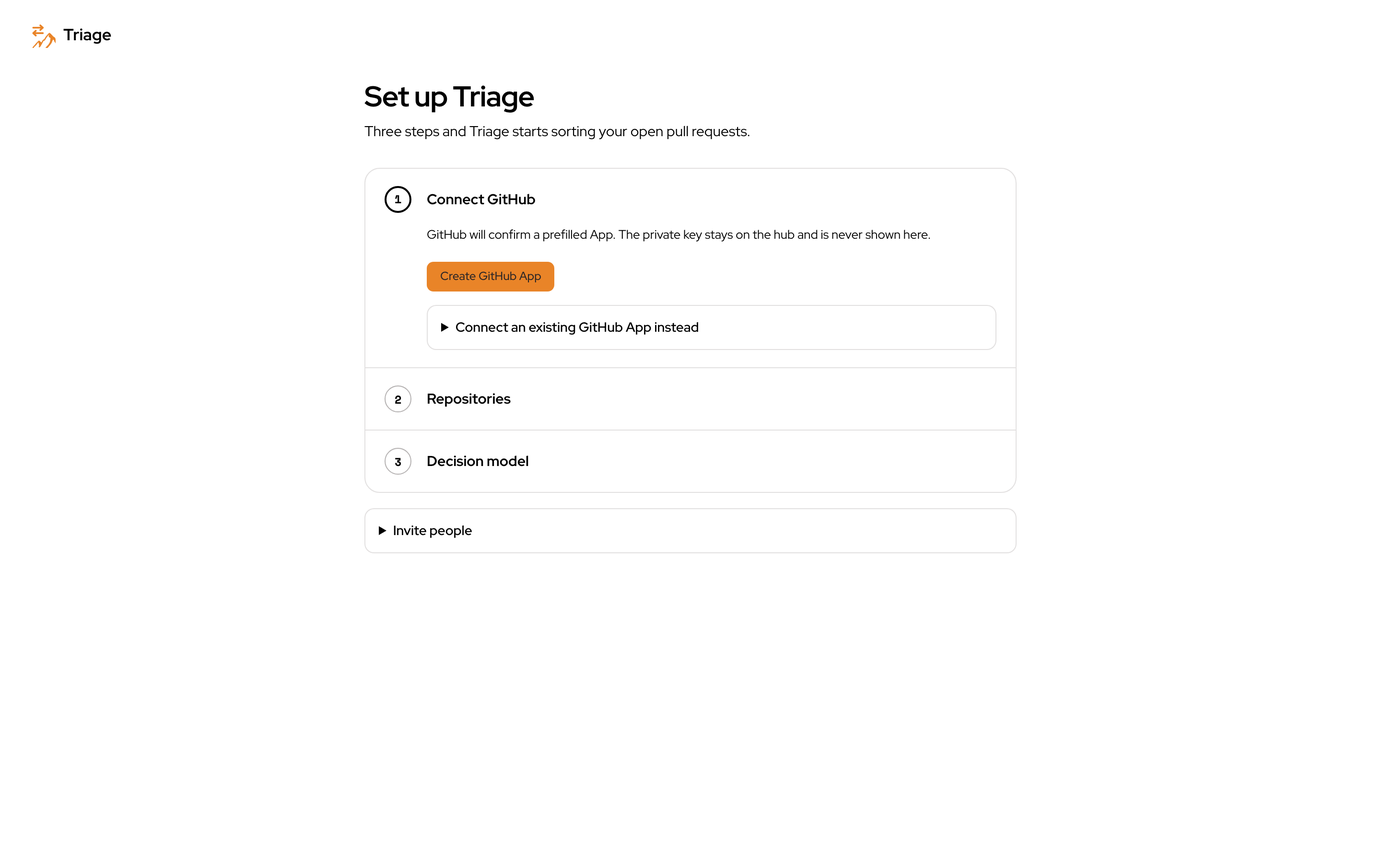
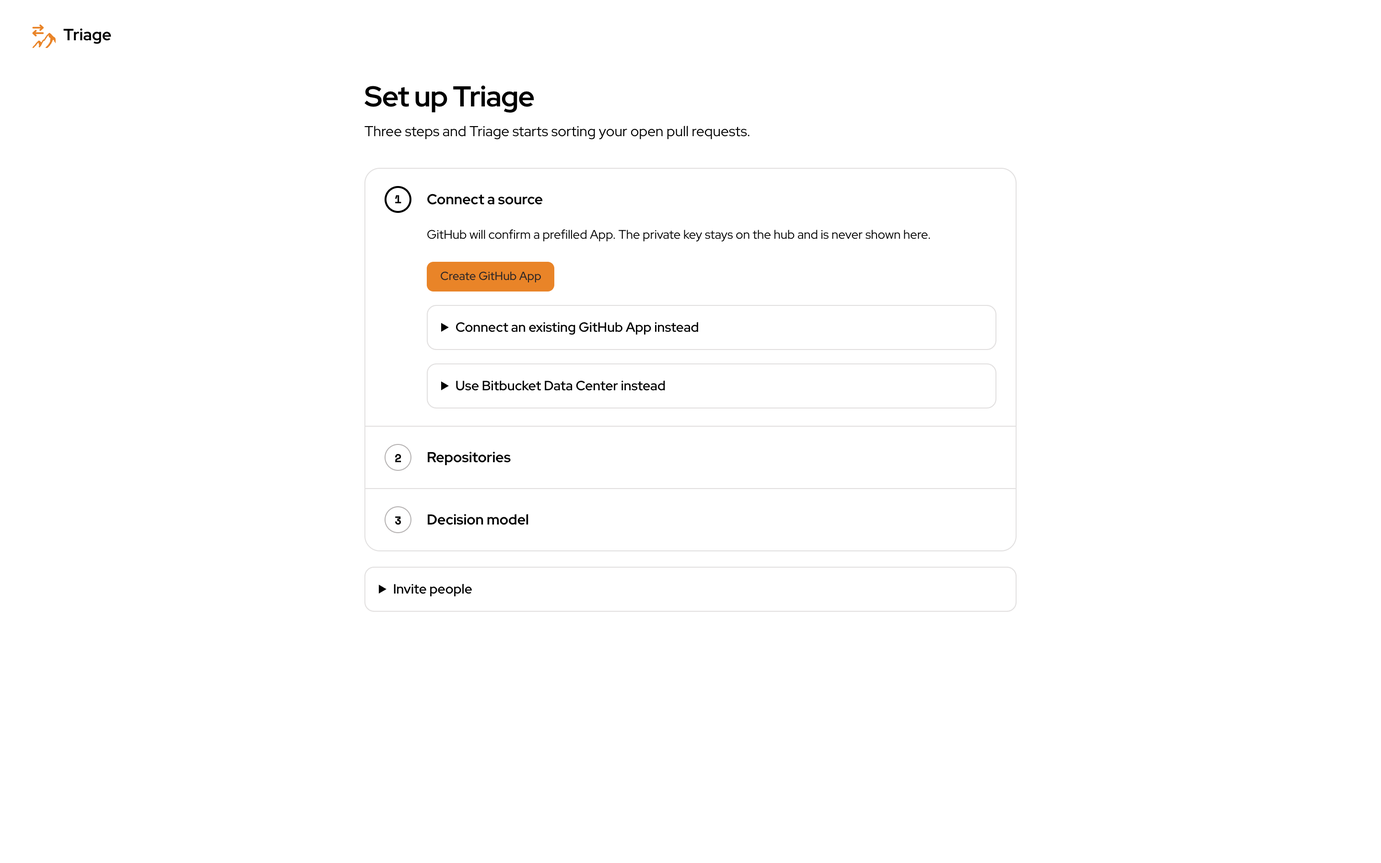
docs(manual): cover Bitbucket Data Center as a pull request source

diff --git a/docs/Corbits Triage User Manual/Corbits Triage User Manual.md b/docs/Corbits Triage User Manual/Corbits Triage User Manual.md
@@ -14,7 +14,7 @@ Oct 13, 2026 · @Brian J. Fox
 
 ## What Corbits Triage is
 
-Corbits Triage is an assistant for people who maintain code on GitHub. It looks at every open pull request in the repositories you choose, checks each one against the rules you set, and tells you whether it looks good to merge. Every pull request gets one of three verdicts: **Pass**, **Fail** or **Unsure**, along with a short list of reasons.
+Corbits Triage is an assistant for people who maintain code on GitHub or Bitbucket Data Center. It looks at every open pull request in the repositories you choose, checks each one against the rules you set, and tells you whether it looks good to merge. Every pull request gets one of three verdicts: **Pass**, **Fail** or **Unsure**, along with a short list of reasons.
 
 Think of it as a first reader. It does the routine checking (Did the tests pass? Is the change too big? Is there a linked issue? Does it need documentation?) so that you can spend your time on the pull requests that actually need a human opinion.
 
@@ -22,17 +22,17 @@ Think of it as a first reader. It does the routine checking (Did the tests pass?
 
 - **Maintainers** open the portal, a web page where they see each pull request's verdict, its reasons and a suggested next step.
 - **Teams** share one workspace. An admin invites teammates by email and decides who may do what.
-- **Pull request authors** never need to log in. They only see what Triage writes on GitHub: labels, comments, review requests and assignments.
+- **Pull request authors** never need to log in. They only see what Triage writes on the pull request: comments, review requests, and labels and assignments on GitHub or a build status on Bitbucket.
 
 ### What it never does on its own
 
-Nothing runs until you turn it on. Installing the GitHub App only records your repositories, with triage switched off. A repository is checked only after someone turns on **Triage pull requests in this repository**. Even then, a new workspace automates nothing: Triage suggests actions, and a person clicks to carry them out, until you decide which actions Triage may run by itself, and in which repositories.
+Nothing runs until you turn it on. Connecting GitHub or Bitbucket Data Center only records your repositories, with triage switched off. A repository is checked only after someone turns on **Triage pull requests in this repository**. Even then, a new workspace automates nothing: Triage suggests actions, and a person clicks to carry them out, until you decide which actions Triage may run by itself, and in which repositories.
 
 ### The three parts
 
 1. **The portal** is the website you use. This manual is about the portal.
-2. **The hub** is the server that stores your settings, talks to GitHub and runs the checks. You normally never see it.
-3. **The decision model** is an AI service that answers the judgment questions rules cannot answer from GitHub data alone, such as "Is this change focused on one thing?" You connect it once in Settings.
+2. **The hub** is the server that stores your settings, talks to GitHub or Bitbucket and runs the checks. You normally never see it.
+3. **The decision model** is an AI service that answers the judgment questions rules cannot answer from repository data alone, such as "Is this change focused on one thing?" You connect it once in Settings.
 
 ## Getting started
 
@@ -44,7 +44,7 @@ Open the portal address. You will see the sign-in screen.
 
 ![The sign-in screen: an email field, a password field, a Sign in button and a link to create an account](images/01.png)
 
-Type your email address and password and press **Sign in**. If your organization uses Google sign-in, a **Google** button appears instead of, or below, the password fields. If you forget your password, use the **Forgot password?** link under the password field.
+Type your email address and password and press **Sign in**. If your organization uses Google sign-in, a **Google** button appears instead of, or below, the password fields. If the sign-in screen shows **Forgot password?**, use it to reset a forgotten password.
 
 ### Creating an account
 
@@ -58,15 +58,19 @@ Creating an account also creates a **workspace**, the shared space your whole te
 
 The first time you sign in to a new workspace, the portal walks you through three steps. Until all three are done, Triage does not look at any pull requests.
 
-![The setup screen listing three steps: Connect GitHub, Repositories and Decision model](images/03.png)
+![The setup screen listing three steps: Connect a source, Repositories and Decision model. The first step offers Create GitHub App, Connect an existing GitHub App instead and Use Bitbucket Data Center instead](images/03.png)
 
-1. **Connect GitHub.** Triage talks to GitHub through a GitHub App. Press **Create GitHub App** and GitHub opens with a prefilled form for you to confirm. GitHub then sends you back to the portal. The App's private key is stored on the Triage server and is never shown in the browser. If your organization already has a GitHub App for Triage, expand **Connect an existing GitHub App instead** and enter its App ID, its slug, its private key file and its webhook secret. The portal shows the webhook URL you must paste into the App's settings on GitHub.
+1. **Connect a source.** A source is where your pull requests live: GitHub or Bitbucket Data Center. Triage talks to GitHub through a GitHub App. Press **Create GitHub App** and GitHub opens with a prefilled form for you to confirm. GitHub then sends you back to the portal. The App's private key is stored on the Triage server and is never shown in the browser. If your organization already has a GitHub App for Triage, expand **Connect an existing GitHub App instead** and enter its App ID, its slug, its private key file and its webhook secret. The portal shows the webhook URL you must paste into the App's settings on GitHub.
 
    ![The form for connecting an existing GitHub App, with fields for App ID, App slug, Private key, Webhook secret and the Webhook URL to copy](images/04.png)
-2. **Repositories.** Press **Choose repositories on GitHub** and pick which repositories the App may see. GitHub tells Triage which ones you chose. They arrive with triage switched off, so nothing runs yet.
+
+   If your team uses Bitbucket Data Center rather than GitHub, expand **Use Bitbucket Data Center instead** and connect your instance as described under [Sources](#sources).
+
+   ![Use Bitbucket Data Center instead, expanded: the Instance URL and HTTP access token fields, the note on the Corbits Triage user and its permissions, the Download the Corbits Triage avatar link and the Connect button](images/24.png)
+2. **Repositories.** On GitHub, press **Choose repositories on GitHub** and pick which repositories the App may see. GitHub tells Triage which ones you chose. With Bitbucket Data Center there is nothing to pick: Triage lists every repository the token can see, and you turn triage on for each one under Repositories. Either way they arrive with triage switched off, so nothing runs yet.
 3. **Decision model.** Pick an AI provider from the list, paste the key your provider gave you, and press **Save decision model**. The key is stored in the server's vault and you will not see it again. If your organization runs its own compatible model service, choose **Add my own provider** and enter its address, model name and key.
 
-![The setup screen after the first two steps are done, showing one repository selected and the decision-model choices](images/05.png)
+![The setup screen after the first two steps are done: Bitbucket Data Center connected, Turn triage on for each repository in Repositories, and the decision-model choices](images/05.png)
 
 You can also invite teammates from this screen by expanding **Invite people**, or do it later from Settings.
 
@@ -82,7 +86,31 @@ Every repository has its own page under **Repositories** in the menu under your 
 
 ### Turning triage on
 
-The switch labeled **Triage pull requests in this repository** is the master control. While it is off, Triage ignores the repository entirely and the rest of the page is grayed out. Switch on at least one rule first; the page tells you if you have not. When you turn triage on, Triage immediately checks every open pull request, and from then on it reacts to each new pull request event as it happens. The link **Triage open pull requests again** re-checks everything that is currently open, which is useful after you change the rules.
+The switch labeled **Triage pull requests in this repository** is the master control. While it is off, Triage ignores the repository entirely and the rest of the page is grayed out. You can turn it on before any rule: the page then says **Triage is enabled. Switch on a rule to have it start triggering.** and nothing is checked until you do. Once a rule is on, Triage checks every open pull request, and from then on it reacts to each new pull request event as it happens. On GitHub, the link **Triage open pull requests again** re-checks everything that is currently open, which is useful after you change the rules.
+
+### Bitbucket Data Center repositories
+
+Repositories from Bitbucket Data Center are named by project key and repository, such as `TRI/widgets`, and carry a **Bitbucket Data Center** mark under their name in the list. The link in the corner of the repository page opens it on Bitbucket.
+
+![The repository page for TRI/widgets, a Bitbucket Data Center repository: the triage switch on with the notice Triage is enabled. Switch on a rule to have it start triggering, then Set up the webhook on Bitbucket with the Webhook URL, the Webhook secret and the events to select](images/25.png)
+
+Bitbucket tells Triage about pull request events through a webhook on each repository. When you turn triage on, Triage creates that webhook itself if its token is allowed to. If not, the page shows **Set up the webhook on Bitbucket** with the webhook URL, a secret and the list of events. A repository admin on Bitbucket then:
+
+1. Opens the repository, then **Repository settings → Webhooks → Create webhook**.
+2. Names it **Corbits Triage** and pastes the URL.
+3. Pastes the secret.
+4. Selects the events listed and leaves the webhook active.
+5. Saves.
+
+The secret is shown only this once. Turning triage off removes a webhook Triage created; one set up by hand stays until an admin deletes it.
+
+A few things work differently from GitHub, because Bitbucket works differently:
+
+- **No labels.** Bitbucket Data Center has no labels, so the Labels card and **Add label…** steps have no effect there. Triage shows its verdict as a build status named **Corbits Triage** on the pull request's latest commit instead.
+- **No assignments.** Bitbucket has no assignees, so **Assign to…** steps are not carried out.
+- **Bitbucket's own reviews.** Approve, Request changes, Close and Merge become Bitbucket's approve, needs work, decline and merge.
+- **CI is checked on a timer.** Bitbucket sends no event when a build finishes, so while the **CI must pass** rule is waiting on a build, or failing because of one, Triage looks at the build again after five minutes, then less often, and checks the pull request again once it has changed.
+- **No export.** The Policy card does not offer **Export to repository**, but a `.corbits-triage.yaml` you add yourself works the same way.
 
 ### Policy
 
@@ -90,7 +118,7 @@ The **Policy** card says where the repository's rules and actions are kept. At f
 
 ![The Policy card for a repository whose .corbits-triage.yaml was changed on GitHub: Not in sync, with Use file and Edit on GitHub buttons. The rules below are grayed out because the file decides them](images/07.png)
 
-- **Edit on GitHub** opens the file on GitHub.
+- **Edit on GitHub**, or **Edit on Bitbucket** for a Bitbucket repository, opens the file there.
 - When someone changes the file, the card says **Not in sync** until Triage reads it again. Press **Use file** to read it now.
 - If the file has a mistake, the card says why and Triage keeps using the last policy it could read.
 
@@ -101,7 +129,7 @@ A file can also start from a workspace-wide policy with `extends`, and then set 
 A rule asks one question about a pull request and answers pass, fail or unconfirmed. The rules are grouped into three cards, and each rule has a switch. The heading shows how many are on. Hover over the small **i** beside a rule for a one-line explanation of how it is checked.
 
 - **Size**: **Flag pull requests over N files changed** and **over N lines changed**. Big changes are hard to review. You choose the limits.
-- **Checks**, facts GitHub already knows:
+- **Checks**, facts the host already knows:
   - **Require a linked issue** from GitHub, Linear or either. The pull request's title, description, commits or branch must mention an issue.
   - **No merge conflicts with the base branch.**
   - **CI must pass.** The repository's automated checks must be green. While they are still running, the rule is unconfirmed rather than passed.
@@ -119,7 +147,7 @@ Below the Judgement rules you can add up to eight rules of your own. Each one is
 
 ![The Judgement card: the two built-in decision-model rules, then an Is it true that rule and a Score rule with the levels poor, fair, good and great and fails below fair](images/08.png)
 
-Rules in the Size and Checks cards only use facts GitHub already knows, so they cost nothing and always give the same answer for the same pull request. Judgement rules cost one model request per pull request.
+Rules in the Size and Checks cards only use facts the host already knows, so they cost nothing and always give the same answer for the same pull request. Judgement rules cost one model request per pull request.
 
 ### How the verdict is decided
 
@@ -139,7 +167,7 @@ Below the summary line are three lists of steps, one per verdict: **Pass**, **Fa
 
 | Action | What it does |
 | --- | --- |
-| Approve | Approves the pull request on GitHub. |
+| Approve | Approves the pull request. |
 | Merge | Merges the pull request. Only on Pass. |
 | Close | Closes the pull request. |
 | Comment | Posts a comment you write. |
@@ -154,7 +182,7 @@ Each step shows whether it **Waits for you** or runs on its own. If something is
 
 Triage only carries out an action on its own when the workspace allows that action in that repository under [Settings → Access](#access). Everything else waits in the Inbox for a person to click. A brand-new workspace automates nothing, so you can watch what Triage suggests before you let it act. Two actions are always held for a person: Close on Unsure, and Merge on anything but Pass.
 
-While a pull request's CI is still running, Triage holds every action, and its comment on GitHub lists them under **Waiting for checks to finish**. They go ahead once the checks are done.
+While a pull request's CI is still running, Triage holds every action, and its comment on the pull request lists them under **Waiting for checks to finish**. They go ahead once the checks are done.
 
 ### Labels
 
@@ -162,12 +190,14 @@ The **Labels** card sets the labels Triage keeps on every pull request so that o
 
 ![The Labels card: the verdict labels Triage: Ready, Triage: Not Ready and Triage: Needs Human Review, marked always, and the switch Also label each failed rule with rule: <id>](images/10.png)
 
+On Bitbucket Data Center this card has no effect; see [Bitbucket Data Center repositories](#bitbucket-data-center-repositories).
+
 - **Label each pull request with its verdict** is always on. Triage puts the verdict's label on the pull request and takes the other two off. The defaults are **Triage: Ready** for Pass, **Triage: Not Ready** for Fail and **Triage: Needs Human Review** for Unsure. You can rename them.
 - **Also label each failed rule** adds a label such as `rule: linked-issue` for every rule that failed.
 
 ## Day to day: the Inbox
 
-Once triage is on, the **Inbox** is where you will spend most of your time. It lists open pull requests, shows each one's verdict and reasons, and offers the next step as a button. Nothing happens on GitHub until you press one of those buttons, unless you have told Triage otherwise in Settings.
+Once triage is on, the **Inbox** is where you will spend most of your time. It lists open pull requests, shows each one's verdict and reasons, and offers the next step as a button. Nothing happens on GitHub or Bitbucket until you press one of those buttons, unless you have told Triage otherwise in Settings.
 
 ### Finding your way around
 
@@ -179,13 +209,13 @@ The dark strip on the left is the same on every page:
 - **Saved views**: ready-made filters. **First-timers** shows pull requests from people who have never contributed to the repository before.
 - **Your name** at the bottom. Click it for Repositories, Settings and Sign out.
 
-Each view has a search box, a **Filter** button and quick filters such as Action, Repo, Waits on and Owner. The three counters in the corner show how many pull requests are new since your last visit, how many were resolved, and how many are stuck.
+Each view has a search box, a **Filter** button and quick filters such as Action, Repo and Owner; **All open** adds Waits on. The three counters in the corner show how many pull requests are new since your last visit, how many were resolved, and how many are stuck.
 
 ### Needs you
 
-![The Needs you view: pull requests grouped under Unblock and Merge, each with a Member chip, its title, the reason, its age and a button for the next step. The right pane shows pull request 4, Blocked with two things to fix and one to check](images/11.png)
+![The Needs you view: pull requests grouped under Unblock and Merge, each with its title, the reason, its age and a button for the next step. The right pane shows TRI/widgets pull request 1, Blocked with three things to fix, and View on Bitbucket in its corner](images/11.png)
 
-Pull requests are grouped by what you need to do: **Unblock** for ones that are stuck on something, **Merge** for ones that passed, and so on. Each row shows a chip describing the author (Member, First-timer, Bot), the title, Triage's one-line reason, how long ago it was triaged, and a button for the most likely next step. Click anywhere on a row to open it in the reading pane on the right.
+Pull requests are grouped by what you need to do: **Unblock** for ones that are stuck on something, **Merge** for ones that passed, and so on. Each row shows the title, on GitHub rows a chip describing the author (Member, First-timer, Bot), Triage's one-line reason, how long ago it was triaged, and a button for the most likely next step. Click anywhere on a row to open it in the reading pane on the right.
 
 ### All open
 
@@ -202,31 +232,31 @@ A pull request that has not been checked yet shows **Not triaged yet** and **Not
 
 Clicking a pull request opens it on the right. The pane is built to be read top to bottom.
 
-![The reading pane for a failing pull request: the status line Blocked with 2 things to fix and 1 to check, then each problem (required checks are failing, no linked issue, a rule that was not asked), the description, folded rows for linked issue, files and rules passed, and a bottom bar with Request changes, Close, Approve and More](images/12.png)
+![The reading pane for a failing pull request: the status line Blocked with 1 thing to fix, the problem Merge conflicts with base, the description, folded rows for linked issue, files and rules passed, and a bottom bar with Request changes, Close, Approve and More](images/12.png)
 
-1. **The header**: repository and number, the title, the author with their chip, when it was opened, and how many lines were added and removed. The **GitHub** link in the corner opens the same pull request on GitHub.
+1. **The header**: repository and number, the title, the author with their chip, when it was opened, and how many lines were added and removed. The **View on GitHub** or **View on Bitbucket** link in the corner opens the same pull request there. The pull request's own page has the same link.
 2. **The status line** in one sentence, such as **Ready to merge**, **Waiting for review**, or **Blocked · 2 things to fix, 1 to check**.
 3. **The problems**, if any. Each failed rule is listed under **To fix** with the evidence, such as the name of the failing check. A rule Triage could not evaluate is listed under **Couldn't check**. A pull request with no problems skips straight to the description.
 4. **The description** the author wrote.
 5. **Folded rows** you can expand: the linked issue, the changed files (with the diff), and the rules that passed. Evidence for a file cites its changed lines and links them at the exact commit Triage judged.
 6. **Commits and conversation** opens the full history and comments.
 
-![The reading pane for a passing pull request: the status line Ready to merge, the description, folded rows, and a bottom bar whose first button is Merge into main](images/13.png)
+![The reading pane for a passing pull request: the status line Ready to merge, the description with its linked issue, folded rows, and a bottom bar whose first button is Merge into main](images/13.png)
 
-![The rules passed row expanded, listing each rule with its result: not a draft, CI passing, 0 change requests, no conflicts, 0 files against a limit of 30, 0 lines against a limit of 3,000, no forbidden paths, issue linked, focused does not apply, documentation is up to date](images/14.png)
+![The rules passed row expanded, listing each rule with its result: not a draft, CI passing, 0 change requests, no conflicts, issue linked, focused does not apply](images/14.png)
 
-Expanding **rules passed** shows every rule with a short note on why it passed, such as the number of files changed against the limit. This is the quickest way to see what Triage actually checked.
+Expanding **rules passed** shows every rule with a short note on why it passed, such as CI passing or the number of files changed against the limit. This is the quickest way to see what Triage actually checked.
 
 ### Taking action
 
 The bar at the bottom of the pane always offers the next step first. For a passing pull request that is **Merge**, for a failing one it is **Request changes**, and for an unsure one it is usually **Comment** or **Approve**. The other actions are beside it, and anything else, including the actions the repository's policy suggested, is under **More**.
 
-![The More menu open at the bottom of the reading pane, listing Edit feedback, Post reply, Approve, Comment and Triage again](images/15.png)
+![The More menu open at the bottom of the reading pane, listing Edit feedback, Post reply, Comment, Merge and Triage again](images/15.png)
 
 - **Merge** merges the exact commit Triage checked. If the author pushes a new commit in the meantime, the merge is refused and Triage checks the new commit first.
 - **Request changes** sends the author a review listing the rules they need to fix. When they fix them, Triage withdraws the request on its own.
-- **Approve** approves the pull request on GitHub. Triage never withdraws an approval you made yourself.
-- **Comment** posts a comment, and **Reply** answers the author. Edit feedback lets you reword the comment Triage will post before it goes out.
+- **Approve** approves the pull request on GitHub or Bitbucket. Triage never withdraws an approval you made yourself.
+- **Comment** posts a comment, and **Post reply** answers the author. **Edit feedback** lets you reword the comment Triage will post before it goes out.
 - **Close** closes the pull request.
 - **Triage again** re-runs the checks on the current commit.
 
@@ -234,31 +264,49 @@ Anything you do here is also written to the audit log.
 
 ### What the author sees
 
-Authors do not use the portal. Depending on the repository's actions, they see a comment from Triage on their pull request with the verdict and reasons, labels such as **Triage: Ready**, **Triage: Not Ready** or **Triage: Needs Human Review**, review requests, and assignments. Triage keeps one comment and edits it in place as the pull request changes, so an author who pushes a fix sees the fresh verdict in the same comment. Only when someone changes the repository's policy and that changes the verdict on the same commit does Triage post a new comment, which says it supersedes the one above.
+Authors do not use the portal. Depending on the repository's actions, they see a comment from Triage on their pull request with the verdict and reasons, review requests, and on GitHub labels such as **Triage: Ready**, **Triage: Not Ready** or **Triage: Needs Human Review** and assignments. On Bitbucket they see the verdict as the **Corbits Triage** build status instead of a label. Triage keeps one comment and edits it in place as the pull request changes, so an author who pushes a fix sees the fresh verdict in the same comment. Only when someone changes the repository's policy and that changes the verdict on the same commit does Triage post a new comment, which says it supersedes the one above.
 
 ### Pulse
 
 **Pulse** is the page to open when you come back after a break. It shows what is new, resolved, waiting on you and acted on by you since your last visit, which pull requests have been stuck for more than three days, and a small table per repository: how many pull requests were triaged this week, how many needed a person, how many were acted on, and the typical time to a verdict.
 
-![The Pulse page: four counters for new, resolved, now waiting on you and acted on by you since the last visit, a Stuck section, and a table per repository with triaged, needed you, acted on and median time to verdict](images/16.png)
+![The Pulse page on a first visit: Since your last visit says changes show from the next visit, an empty Stuck section, and the table for TRI/widgets with triaged, needed you, acted on and median time to verdict](images/16.png)
 
 ## Settings: people, access and workspace configuration
 
-**Settings** is reached from the menu under your name at the bottom of the left rail. It is one page with five sections: Triage, GitHub, Decision model, Access and Your account. The links at the top jump to each section. Most teams visit it once during setup and then only to invite people or change what Triage may do on its own.
+**Settings** is reached from the menu under your name at the bottom of the left rail. It is one page with five sections: Triage, Sources, Decision model, Access and Your account. The links at the top jump to each section. Most teams visit it once during setup and then only to invite people or change what Triage may do on its own.
 
 ### Triage
 
-![The top of Settings: Workspace settings with the workspace name, people and repository counts, links to each section, and the Triage section saying Triage is running on 1 of 1 repository, followed by the versions it runs and a Copy button](images/22.png)
+![The Triage section of Settings: Triage is running on 1 of 1 repository, the versions it runs and a Copy button](images/22.png)
 
 Says how many repositories Triage is running on, with a **Choose repositories** link, and shows the version of each Triage component currently running for your workspace. You do not need to change anything here. Press **Copy** when you report a problem, because support will ask which versions you are on.
 
-### GitHub
+### Sources
 
-![The GitHub section: the connected App and its repository, the stored webhook and App secrets with Replace secret and Remove, and the Webhook URL to copy](images/17.png)
+Sources are where Triage reads pull requests from and acts on them. GitHub and Bitbucket Data Center sit side by side, and a workspace can use either or both.
+
+![The Sources section: GitHub, with The GitHub App is not connected, a Connect it link and its Webhook URL, beside Bitbucket Data Center, Connected to http://localhost:7990 with a Disconnect button and its Webhook URL](images/17.png)
+
+#### GitHub
 
 This section shows whether the GitHub App is connected and which repositories it is installed on. Press **Choose repositories on GitHub** to add or remove repositories. GitHub's own installer opens, and when you come back, any new repository appears under Repositories with triage switched off. **Open Repositories** goes straight to that page.
 
 Below that are the secrets the App needs: the webhook secret and the App's private key. Each has a **Replace secret** button for rotating it and a **Remove** link. Removing the GitHub App secret disconnects Triage from GitHub, so do that only when you mean to. The **Webhook URL** is what GitHub uses to tell Triage about pull request events. You only need it if you set up the App by hand.
+
+#### Bitbucket Data Center
+
+Triage reaches a Bitbucket Data Center instance with an HTTP access token. To connect one, enter the **Instance URL**, such as `https://bitbucket.example.com`, paste the **HTTP access token** and press **Connect**. Triage tries the token once and stores it in the server's vault only if the instance accepts it.
+
+Create the token for a dedicated Bitbucket user named **Corbits Triage**, not for a person, so that Triage's comments and reviews show under that name. **Download the Corbits Triage avatar** gives you a picture for that user. The token needs:
+
+| Permission | For |
+| --- | --- |
+| Project read | Listing projects and repositories |
+| Repository write | What Triage does on pull requests |
+| Repository admin | Creating each repository's webhook. Without it, a repository admin sets the webhook up by hand (see [Bitbucket Data Center repositories](#bitbucket-data-center-repositories)). |
+
+Once connected, the card says **Connected to** the instance and shows the **Webhook URL**, where Bitbucket sends pull request events. Triage creates each repository's webhook when you turn triage on, if the token allows it. **Disconnect** stops triage on every Bitbucket Data Center repository and removes the webhooks Triage created; their rules are kept. If a webhook cannot be removed, the card names the repositories where an admin must delete it by hand.
 
 ### Decision model
 
@@ -286,7 +334,7 @@ There are three roles:
 
 ![What Triage does on its own: a row per action, with Add labels allowed on its own in acme/widgets and every other action waiting for approval](images/23.png)
 
-**What Triage does on its own** is the important one. Each action has a list of repositories where Triage carries it out on GitHub by itself during triage, without waiting for anyone. Pick a repository from **Add repository…**, or **All repositories**, to allow it; press × to take it away. An action with no repositories listed waits for approval everywhere. In a new workspace every list is empty. Allow actions one at a time as you gain confidence, starting with low-risk ones such as adding labels. The repository page then marks those steps as running on their own instead of **Waits for you**.
+**What Triage does on its own** is the important one. Each action has a list of repositories where Triage carries it out on the pull request by itself during triage, without waiting for anyone. Pick a repository from **Add repository…**, or **All repositories**, to allow it; press × to take it away. An action with no repositories listed waits for approval everywhere. In a new workspace every list is empty. Allow actions one at a time as you gain confidence, starting with low-risk ones such as adding labels. The repository page then marks those steps as running on their own instead of **Waits for you**.
 
 ### Your account
 
@@ -316,12 +364,15 @@ Type in the search box to narrow the list by actor, action or pull request. The 
 
 | Word | What it means here |
 | --- | --- |
-| Pull request | A proposed change to a repository on GitHub, waiting to be reviewed and merged. |
-| Repository | One project's code on GitHub, such as acme/widgets. |
+| Pull request | A proposed change to a repository on GitHub or Bitbucket Data Center, waiting to be reviewed and merged. |
+| Repository | One project's code, such as acme/widgets on GitHub or TRI/widgets on Bitbucket Data Center. |
+| Source | Where pull requests live: GitHub or Bitbucket Data Center. Connected under Settings → Sources. |
 | Workspace | Your team's shared space in Triage. One workspace can watch many repositories. |
 | Portal | The Triage website. |
 | Hub | The Triage server behind the portal. You never use it directly. |
 | GitHub App | The connection between Triage and GitHub. Installing it on a repository lets Triage read pull requests and, if you allow it, write labels, comments and reviews. |
+| HTTP access token | The connection between Triage and Bitbucket Data Center, created for a Bitbucket user named Corbits Triage. |
+| Build status | The pass or fail mark Bitbucket shows beside a commit. Triage writes its verdict there as **Corbits Triage**, since Bitbucket has no labels. |
 | Rule | One question Triage asks about a pull request, answered pass, fail or unconfirmed. |
 | Decision model | The AI service that answers questions needing judgment, and that gives the final verdict when the policy has Judgement rules. |
 | Verdict | Triage's overall answer for one commit of a pull request: Pass, Fail or Unsure. |
@@ -333,14 +384,14 @@ Type in the search box to narrow the list by actor, action or pull request. The 
 | CI | Continuous integration: the automated tests and checks a repository runs on every pull request. |
 | Draft | A pull request its author has marked as not ready. Triage waits until it is marked ready. |
 | First-timer | Someone opening their first pull request in a repository. |
-| Webhook | The channel GitHub uses to tell Triage about new events. |
+| Webhook | The channel GitHub or Bitbucket uses to tell Triage about new events. |
 | Audit log | The record of everything that happened in your workspace. |
 
 ### Common questions
 
-**Triage says Unsure. What should I do?** Read the pull request yourself. Unsure means the rules did not catch a problem but the decision model was not confident either way. Approve, request changes or comment as you would normally. If a rule could not run because GitHub had not finished computing something, such as CI, Triage will check again on its own.
+**Triage says Unsure. What should I do?** Read the pull request yourself. Unsure means the rules did not catch a problem but the decision model was not confident either way. Approve, request changes or comment as you would normally. If a rule could not run because the host had not finished computing something, such as CI, Triage will check again on its own.
 
-**A pull request shows "Not triaged yet" for a long time.** Check that triage is on for its repository, that the GitHub App is still connected under Settings → GitHub, and that a decision model is saved under Settings → Decision model. If all three look right, open the repository and press **Triage open pull requests again**.
+**A pull request shows "Not triaged yet" for a long time.** Check that triage is on for its repository, that its source is still connected under Settings → Sources, and that a decision model is saved under Settings → Decision model. If all three look right, open the repository and press **Triage open pull requests again**. On Bitbucket, also check the repository has its **Corbits Triage** webhook.
 
 **Does Triage ever merge, close or approve on its own?** Only if you allow it. Each action has a list of repositories under **What Triage does on its own** in Settings → Access, and every list starts empty. Close is never run automatically on an Unsure verdict, and Merge never on anything but Pass, even when they are allowed.
 
@@ -350,7 +401,7 @@ Type in the search box to narrow the list by actor, action or pull request. The 
 
 **Can I try new rules without affecting anyone?** Changes on the repository page take effect as soon as they are saved, and actions that Triage does not run on its own still wait for a person. To have rule changes reviewed first, keep the policy in the repository's `.corbits-triage.yaml` and change it through a pull request.
 
-**Where do I change my password?** Sign out, then use **Forgot password?** on the sign-in screen. A reset link is sent to your email.
+**Where do I change my password?** Sign out. If the sign-in screen shows **Forgot password?**, use it, and a reset link is sent to your email.
 
 **How do I remove someone from the workspace?** An Owner or Admin can change or remove a person's role under Settings → Access.
 
